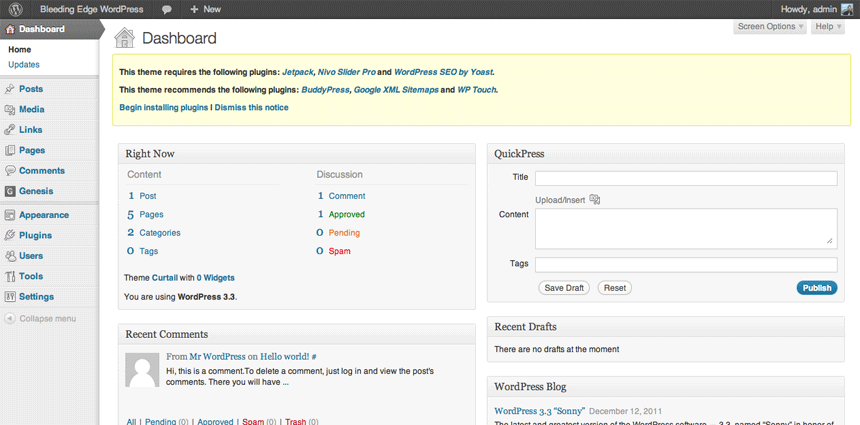
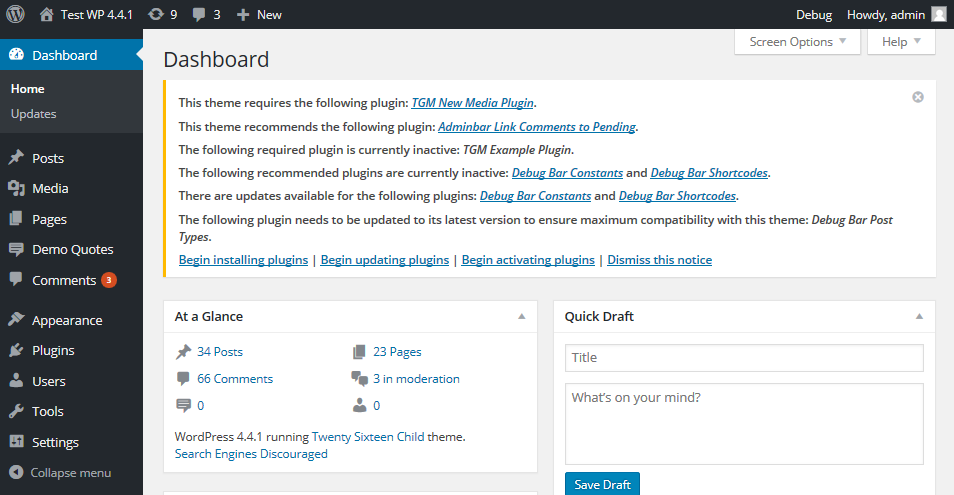
Updated screenshots.
(so they won't look so out-of-date when the survey goes out)

diff --git a/04-Configuration.md b/04-Configuration.md
@@ -111,7 +111,7 @@ Parameter | Type | Since | Details
 <span class="possibly-required">required</span> | boolean | v2.0.0 | Either `true` or `false`. Defaults to `false`.<br>If set to `true`, the plugin will show as _required_.<br>If set to `false` or not set, the plugin will show as _recommended_.
 <span class="possibly-required">source</span> | string | v2.0.0 | The source of the plugin.<br>This parameter is required if the plugin you are referencing <u>is not</u> from the WordPress Plugin Repository.<br>You can reference either bundled plugins or plugins elsewhere on the internet from this parameter.<br>For bundled plugins, this should be the path to the .zip file. For external plugins, the direct url to the .zip file.
 <span class="possibly-required">version</span> | string | v2.2.0 | The minimum version required for the plugin.<br>This parameter is useful if you require a minimum version of a plugin in order for your theme or plugin to work.<br>If the user has the plugin installed but does not meet the minimum version specified, a notice will show asking them to update the plugin to the latest version.<br>N.B.: This parameter is _required_ if you want users to update a plugin with a newer **_bundled_** version.
-force_activation | boolean | v2.2.0 | Either `true` or `false`. Defaults to `false`.<br>If set to `true`, it forces the specified plugin to be active at all times while the current theme is active. The plugin can only be deactivated after switching themes or deactivation your plugin.
+force_activation | boolean | v2.2.0 | Either `true` or `false`. Defaults to `false`.<br>If set to `true`, it forces the specified plugin to be active at all times while the current theme (or plugin) is active. The plugin can only be deactivated after switching themes or deactivation of your plugin.
 force_deactivation | boolean | v2.2.0 | Either `true` or `false`. Defaults to `false`.<br>If set to `true`, it forces the specified plugin to be deactivated when the current theme is switched. This is useful for deactivating theme-specific plugins.
 external_url | string | v2.2.0 | An external URL for the plugin.<br>By default, plugins referenced from the WordPress Plugin Repository are linked to their plugin information via a thickbox overlay. This parameter overrides this default behavior and allows you to specify an alternative URL for the plugin which - when clicked - will be opened in a new tab/window.
 is_callable | string\|array | v2.5.0 | Advanced feature. If a plugin can be installed under two or more different slugs - for instance a basic version and a premium version using different slugs -, it might not be recognized correctly as active.<br>By setting `is_callable` to either a function `function_name` from that plugin or a class method - `array( 'class', 'method' )` - similar to how you hook in to actions and filters - TGMPA can still recognize the plugin as being active.

diff --git a/05-Screenshots.md b/05-Screenshots.md
@@ -10,8 +10,6 @@ Below are a few screenshots to give you an idea of how the **{{ site.tgmpa.name 
 
 ![screenshot-1]({{ '/images/screenshots/admin-notice.png' | prepend: site.tgmpa.url }})
 
-![screenshot-2]({{ '/images/screenshots/admin-notice-all.png' | prepend: site.tgmpa.url }})
+![screenshot-2]({{ '/images/screenshots/plugin-table.png' | prepend: site.tgmpa.url }})
 
-![screenshot-3]({{ '/images/screenshots/plugin-table.png' | prepend: site.tgmpa.url }})
-
-![screenshot-4]({{ '/images/screenshots/bulk-install.png' | prepend: site.tgmpa.url }})
+![screenshot-3]({{ '/images/screenshots/bulk-install.png' | prepend: site.tgmpa.url }})
